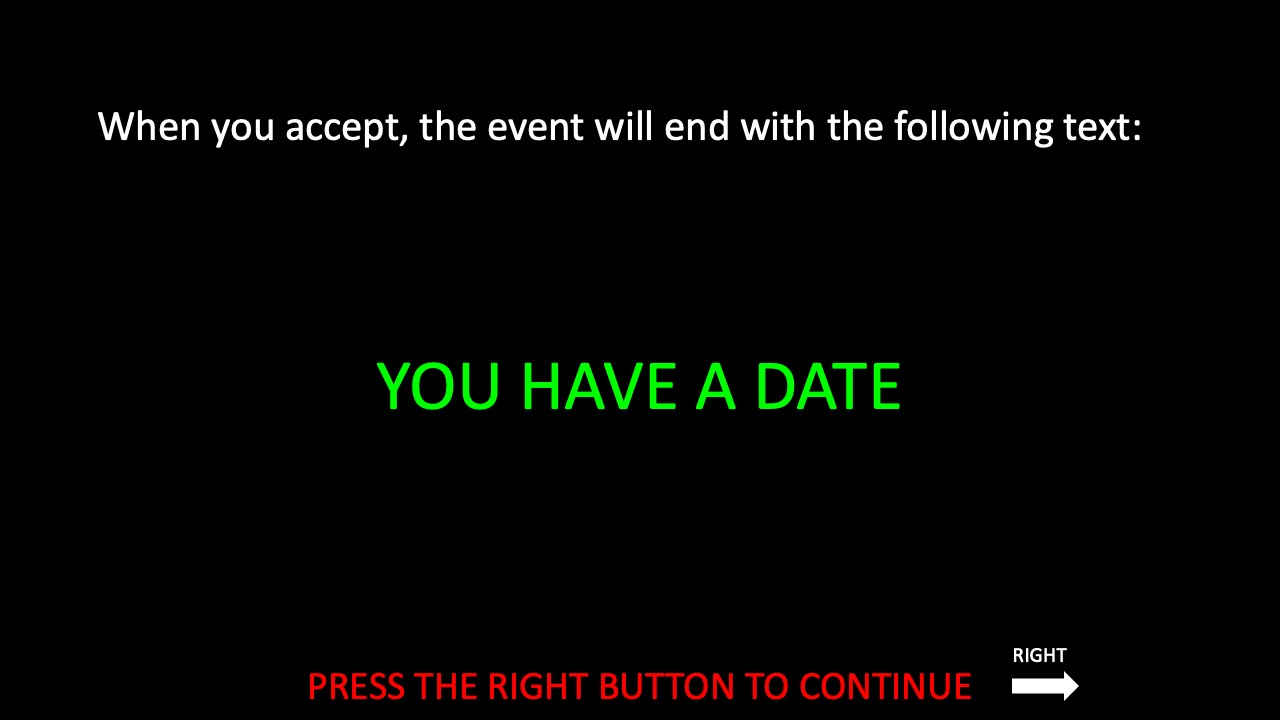
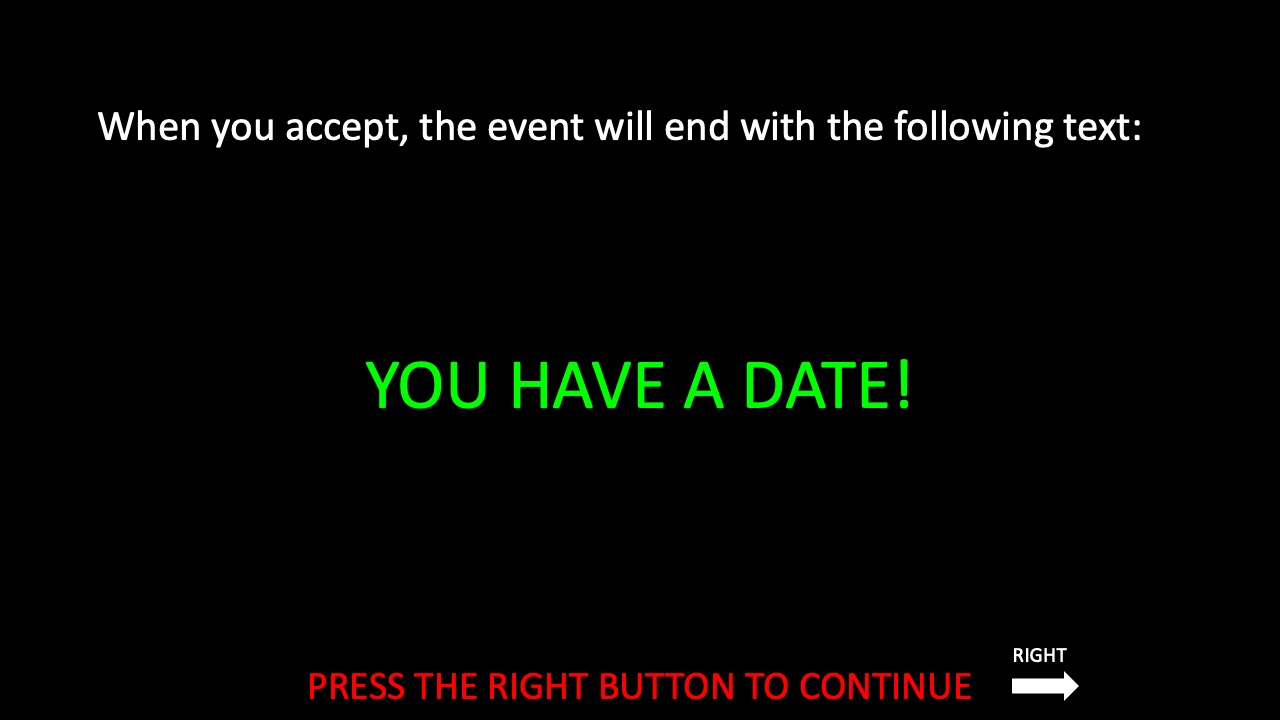
fix slide so that the green text matches. #34

Changed region(s): [[0.2812, 0.4889, 0.7188, 0.5806]]

diff --git a/public/js/tasks/blind_dating/blind_dating.js b/public/js/tasks/blind_dating/blind_dating.js
@@ -1394,7 +1394,7 @@ function trialRoutineEachFrame(trials) {
 			if (points_fixation_stim.status == PsychoJS.Status.NOT_STARTED) {
 				clear_stims()
 				points_fixation_stim.color = new util.Color('#00fa40')
-				points_fixation_stim.setText(`You Have A date!`)
+				points_fixation_stim.setText(`YOU HAVE A DATE!`)
 				points_fixation_stim.setAutoDraw(true)
 
 				continueRoutine = false
